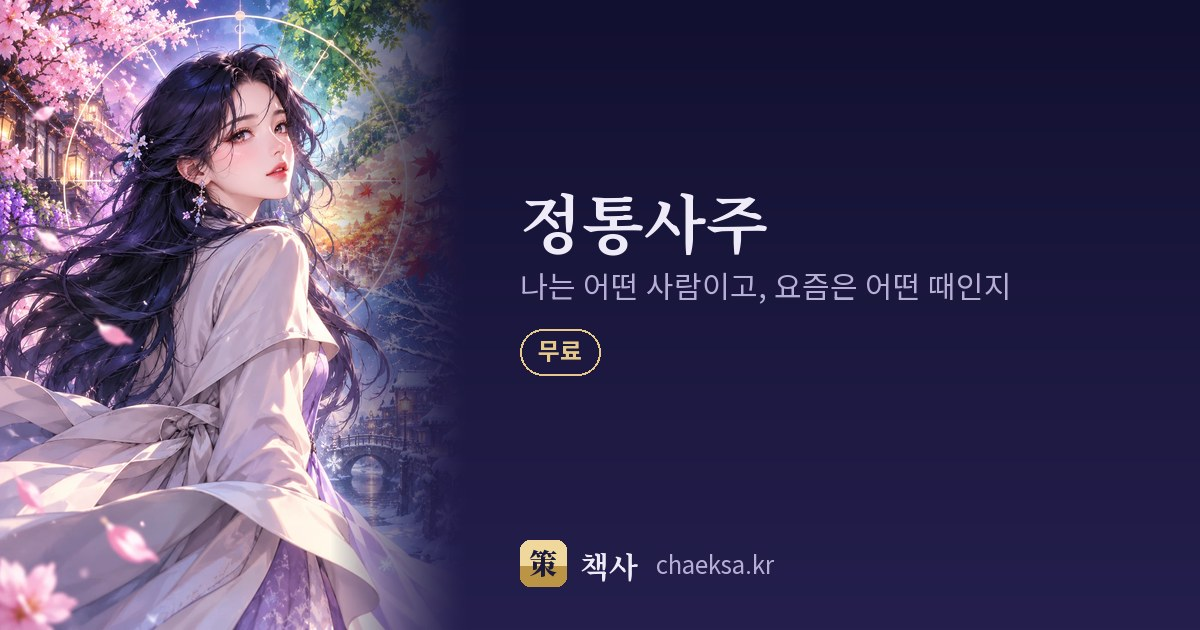
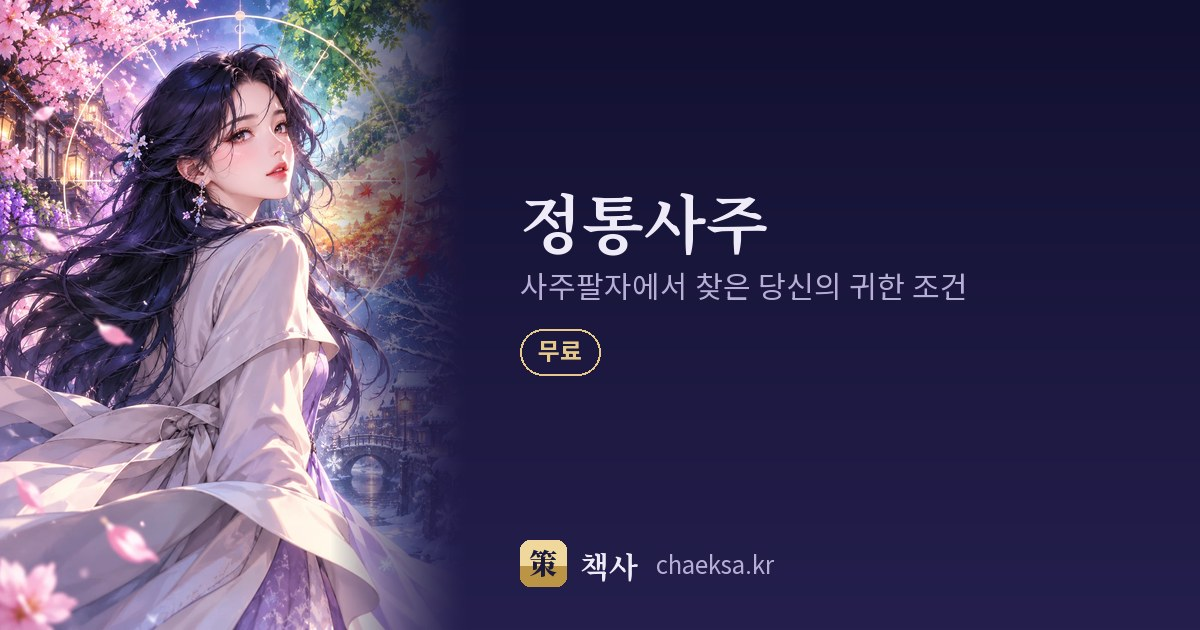
Show the full catalog on returning home and promote traditional readings
정한 것: 이어 보기 카드를 없애고 재방문 홈에 전체 목록을 보인다. 정통사주와 정통자미두수를 상단에 두고 이름과 소개를 통일한다.

Changed region(s): [[0.4317, 0.4222, 0.8325, 0.4825]]

diff --git a/app/yaksok.js b/app/yaksok.js
@@ -47,7 +47,7 @@
 "taekil": {"코드": "taekil", "탭": "taekil", "상품이름": "출산택일 보고서", "단위": "신청 한 건", "한줄": "의사가 정해 준 출산 가능 범위 안에서, 책사의 기준으로 가장 좋은 날과 시간을 골라 드려요. 가장 먼저 권하는 이유와 다른 후보와의 차이를 보고서에 담아요.", "딱지": "자료 무료 · 보고서 {값}", "미리": "아이가 태어날 날을 골라 보는 도구(출산택일 시뮬레이터)와 매달 올리는 날짜 선택 자료(택일 자료)는 가입 없이 무료예요. 지어낸 가족으로 만든 보고서 견본도 결제 전에 먼저 보세요.", "견본": "taekil-sample.html", "신청": "신청 화면에서 신청서를 작성한 뒤, 같은 화면에서 결제하세요.", "만듦": "결제하면 날짜와 시각을 자동으로 계산해요. 책사가 한 번 더 확인한 뒤 「내 보고서」에서 열어 드려요", "시간": "보통 2~3일 안", "받는것": ["후보 기간의 모든 날 · 모든 시각을 비교해 고른 가장 추천하는 날과 시간", "아이 성별에 맞춰 10년마다 바뀌는 운의 흐름(대운)을 반영하고, 부모 · 형제와 사주가 맞지 않는 날을 거른 결과", "태어날 지역의 실제 태양 위치에 맞춘 시각(진태양시)으로 고쳐 계산하고, 병원에 말씀하실 시계 시각까지 적은 보고서", "옛 책 두 권으로 살핀 근거를 함께 적은 문서(궁통보감 · 자평진전)"], "보관": "결제한 계정에 2년 동안 남아서, 폰에서 열어도 PC에서 열어도 「내 보고서」에서 다시 볼 수 있어요", "필요": "메일 주소 · 출산 예정 기간 · 태어날 지역(가족 생년월일시는 아는 만큼) · 결제할 때 카카오 · 네이버 로그인", "환불": "보고서를 처음 열어 보기 전에는 전액 돌려드려요. 연 뒤에는 결제 취소(청약철회)가 제한될 수 있어요. 보고서를 만들지 못해도 전액 돌려드려요.", "자리": "taekil-apply.html", "그림": "art/taekil-main.webp"},
 "gyeolhon": {"코드": "gyeolhon", "탭": "gyeolhon.html", "이름": "결혼상대 점검", "상품이름": "결혼상대 점검 보고서", "단위": "신청 한 건", "한줄": "두 사람의 생년월일시로 같이 가도 되는지 · 서로 맞춰 가야 하는지 · 날짜를 잡기 전에 다시 생각해 봐야 하는지, 셋 가운데 하나로 답해요. 결혼 전에 할 일과 날짜를 잡을 때 피할 해까지 보고서(PDF)에 적어 드려요.", "홈한줄": "이 사람과 결혼해도 될까요?", "딱지": "보고서 · {값}", "미리": "어떤 보고서를 받는지, 지어낸 두 사람으로 만든 견본을 먼저 보세요.", "견본": "gyeolhon-sample.html", "신청": "신청 화면의 저장된 사람 목록에서 두 분을 고르고 보고서를 받으실 메일 주소를 적은 뒤, 그 자리에서 결제해 주세요.", "만듦": "결제하면 프로그램이 두 사람의 생년월일시로 계산하고, 책사가 한 번 더 확인한 뒤 적어 주신 메일로 보고서(PDF)를 보내 드려요", "시간": "보통 2~3일 안", "받는것": ["맨 위 결론 한 줄 — 같이 가도 되는지 · 서로 맞춰 가야 하는지 · 다시 생각해 봐야 하는지, 그리고 결혼 전에 할 일", "두 사람이 어울리는 사이인지 · 서로가 바라던 사람인지 — 각자의 입장에서 본 결과", "짝에게 바라는 모습이 흔들리는 해와, 상대가 내 삶에 들어오면 무엇이 바뀌는지", "옛 책 네 권이 결혼이 깨진다고 본 사주 글자의 조합에 해당하는지 살핀 결과 — 원문 글자 그대로", "조심할 해와 옛 책이 좋지 않다고 본 사주 글자의 조합이 풀리는 해를 순서대로 적은 한 줄 연표"], "필요": "저장된 두 사람(생년월일 · 태어난 시 · 태어난 곳 · 성별) · 보고서를 받으실 메일 주소 · 결제할 때 카카오 · 네이버 로그인", "환불": "보고서를 메일로 받으시기 전에는 이유를 묻지 않고 전액 돌려드려요. 받으신 뒤에는 결제 취소(청약철회)가 제한될 수 있어요. 보고서를 만들지 못해도 전액 돌려드려요.", "자리": "gyeolhon-apply.html", "그림": "art/story-sanggyeonrye.webp"},
 "ilgyeol": {"코드": "ilgyeol", "탭": "ilgyeol.html", "이름": "나는 뭐해 먹고 살까?", "상품이름": "나는 뭐해 먹고 살까?", "단위": "신청 한 건", "한줄": "태어난 해 · 달 · 날 · 시를 글자로 나타내어 풀이하는 방법(사주)과, 태어난 때로 열두 칸에 별을 놓아 보는 옛 방법(자미두수)으로 한 사람에게 맞는 일의 조건 · 피할 상황 · 돈이 들어오는 방법 · 같이 일할 사람 · 앞으로 10년을 풀어 드려요. 널리 퍼진 풀이(통설)와 옛 책 원문으로 본 풀이를 나란히 적고, 결제하면 바로 화면에서 열려요.", "홈한줄": "맞는 일의 조건 · 피할 상황 · 앞으로 10년", "딱지": "결제하면 바로 · {값}", "미리": "어떤 답이 나오는지 소개 화면에서 먼저 보세요. 직업 이름을 찍어 주는 게 아니라, 맞는 일의 조건과 그 근거를 드려요.", "신청": "신청 화면에서 저장된 사람 한 명을 고르고 그 자리에서 결제해 주세요.", "만듦": "결제하면 프로그램이 계산하고 글을 써서 그 자리에서 바로 열어 드려요", "시간": "보통 1~2분", "받는것": ["맞는 일의 조건과 피할 상황 — 사주 글자마다 뜻을 하나로 정해 둔 표(십성 대응표)와 옛 책 원문 글자 그대로를 근거로", "돈이 들어오는 방법 · 같이 일할 사람", "널리 퍼진 풀이(통설) · 옛 책 원문으로 본 풀이 · 책사의 판단 — 서로 다른 부분을 나란히", "앞으로 10년 — 해마다 새로 생기는 변화와 사라지는 변화를, 생각으로 깨닫는 것과 실제 행동으로 옮기는 것으로 나눠 적고, 프로그램의 판정을 붙여요", "태어난 해 · 달 · 날 · 시를 나타내는 여덟 글자를 적은 표(사주 명식표)와 태어난 때로 열두 칸에 별을 놓은 판(자미두수 명반)"], "보관": "결제한 계정에 2년 동안 남아서, 폰에서 열어도 PC에서 열어도 「내 결과」에서 다시 볼 수 있어요", "필요": "저장된 사람 한 명(생년월일 · 태어난 시 · 태어난 곳 · 성별) · 결제할 때 카카오 · 네이버 로그인", "환불": "처음 열어 보기 전에는 이유를 묻지 않고 전액 돌려드려요. 연 뒤에는 결제 취소(청약철회)가 제한될 수 있어요. 만들지 못해도 전액 돌려드려요.", "자리": "ilgyeol-apply.html", "그림": "art/jt-15-work-m.webp"},
-"jeongtong": {"코드": null, "탭": "jeongtong", "딱지": "무료", "필요": "내 생년월일시", "입력단추": "내 정통사주 보기"},
+"jeongtong": {"코드": null, "탭": "jeongtong", "이름": "정통사주", "홈한줄": "사주팔자에서 찾은 당신의 귀한 조건", "딱지": "무료", "필요": "내 생년월일시", "입력단추": "내 정통사주 보기"},
 "chongnon": {"코드": null, "탭": "chongnon", "딱지": "무료", "필요": "내 생년월일시 · 그 사람 생년월일시(다음 칸에서)", "입력단추": "다음 — 그 사람 생년월일"},
 "ssom": {"코드": null, "탭": "ssom", "딱지": "무료", "필요": "내 생년월일시 · 그 사람 생년월일시(다음 칸에서)", "입력단추": "다음 — 그 사람 생년월일"},
 "week": {"코드": null, "탭": "home", "딱지": "무료", "필요": "내 생년월일시", "입력단추": "이번 주 흐름 보기"},
@@ -56,7 +56,7 @@
 "saram": {"코드": null, "탭": "saram.html", "이름": "새로 만난 그 사람", "홈한줄": "이름 · 생년월일만 넣으면 원래 어떤 사람인지 한눈에", "딱지": "무료", "필요": "내 생년월일 + 다른 사람 생년월일", "자리": "saram.html"},
 "gyeokgi": {"코드": null, "탭": "gyeokgi.html", "이름": "옛 책은 내 명식을 반겼을까", "홈한줄": "옛 책이 이름 붙여 반긴 드문 짜임(격)에 내 사주(명식)가 해당하는지", "딱지": "무료", "필요": "내 생년월일시", "자리": "gyeokgi.html"},
 "gwi": {"코드": null, "탭": "gwi.html", "이름": "나는 귀한 사람일까", "홈한줄": "옛 책이 귀하다고 꼽은 짜임이 내 사주에 있는지", "딱지": "무료", "필요": "내 생년월일시", "자리": "gwi.html"},
-"myeongban": {"코드": null, "탭": "myeongban.html", "이름": "내 명반에는 무엇이 적혀 있을까", "홈한줄": "자미두수 명반(열두 칸에 별을 놓은 판)을 그리고, 칸(궁)과 별을 누르면 옛 책이 거기 적은 말을", "딱지": "무료", "필요": "내 생년월일시(시각 꼭)", "자리": "myeongban.html"},
+"myeongban": {"코드": null, "탭": "myeongban.html", "이름": "정통자미두수", "홈한줄": "별의 배치에서 찾은 당신의 귀한 조건", "딱지": "무료", "필요": "내 생년월일시(시각 꼭)", "자리": "myeongban.html"},
 "read": {"코드": null, "탭": "read.html", "딱지": "무료"}
 },
 "차례": ["taekil", "gyeolhon", "ilgyeol", "love", "pair"],

diff --git a/app/home-cats.js b/app/home-cats.js
@@ -71,7 +71,7 @@
     return null;
   }
 
-  var 그림판 = 'v1472';   // tools_bust.py --bump 가 서비스워커 판과 같이 올린다
+  var 그림판 = 'v1473';   // tools_bust.py --bump 가 서비스워커 판과 같이 올린다
   function 그림칸(b, c, i, 차례, g, Y) {
     // 그림은 그림만(10-23 사장님) — 그림 아래에 이름(.n) · 한줄(.s) · 딱지(.t: 무엇이 무료 · 얼마 — 값은 상품표에서 채운다). 분류 딱지는 안 그린다.
     var 이름 = c.표시명 || (Y && Y.이름(c.키)) || b.이름, 한줄 = c.설명 || (Y && Y.홈한줄 ? Y.홈한줄(c.키) : ''), 딱지 = Y ? Y.딱지html(c.키) : '';
@@ -111,7 +111,7 @@
     Object.keys(칸).some(function (분류) { return 칸[분류].some(function (c) { if (c.키 !== 키) return false; out = { b: { 키: 분류 }, c: c }; return true; }); });
     return out;
   }
-  // 홈은 목적 네 개, 전체 보기는 기존 상품 표 전부. 계산·가격·입력 경로는 기존 것을 쓴다.
+  // 처음 방문은 정통 풀이 두 칸과 목적별 입구. 재방문 홈은 전체 목록.
   function 그리기(el) {
     if (!el) return;
     var Y = global.ChaeksaYaksok, g = 성별();
@@ -121,7 +121,12 @@
       ['jeongtong', '내 일과 돈', '돈 버는 방식부터 살펴보세요', 'jtCh7'],
       ['when', '언제 나아질까?', '힘든 때와 풀리는 때를 살펴보세요']
     ];
-    el.innerHTML = '<section class="home-paths" aria-label="목적별 바로가기"><h2>바로 보고 싶은 이야기</h2><div class="cats home-doors">' + 입구.map(function (r, i) {
+    var 정통 = ['jeongtong', 'myeongban'].map(function (key, i) {
+      var x = 찾기(key);
+      return 그림칸(x.b, x.c, i, i, g, Y);
+    }).join('');
+    el.innerHTML = '<section class="home-paths" aria-label="나를 알아보기"><h2>나를 알아보기</h2><div class="cats home-doors">' + 정통 + '</div></section>'
+      + '<section class="home-paths" aria-label="목적별 바로가기"><h2>바로 보고 싶은 이야기</h2><div class="cats home-doors">' + 입구.map(function (r, i) {
       var x = 찾기(r[0]);
       return 그림칸(x.b, Object.assign({}, x.c, { 표시명: r[1], 설명: r[2], 곳: r[3] }), i, i, g, Y);
     }).join('') + '</div><a class="home-all-link" href="#all">전체 보기 <span aria-hidden="true">→</span></a></section>';
@@ -129,16 +134,18 @@
     길달기(el);
   }
   function 전체그리기(el) {
-    var Y = global.ChaeksaYaksok, g = 성별(), n = 4;
+    var Y = global.ChaeksaYaksok, g = 성별(), n = 0;
+    var prefix = el.closest('[data-tab="home"]') ? 'home-catalog-' : 'all-catalog-';
     var 묶음들 = [
+      ['나를 알아보기', ['jeongtong', 'myeongban']],
       ['아기 태어날 날과 시간', ['taekil']],
       ['연애와 궁합', ['chongnon', 'ssom', 'gyeolhon', 'love', 'pair', 'saram']],
       ['일과 돈', ['ilgyeol']],
-      ['나를 알아보기', ['jeongtong', 'when', 'brain', 'gwi', 'gyeokgi', 'myeongban']],
+      ['더 알아보기', ['when', 'brain', 'gwi', 'gyeokgi']],
       ['읽을거리', ['read']]
     ];
     el.innerHTML = 묶음들.map(function (r, group) {
-      return '<section class="catalog-group" aria-labelledby="catalog-title-' + group + '"><h2 id="catalog-title-' + group + '">' + esc(r[0]) + '</h2><div class="catalog-list">' + r[1].map(function (키, i) {
+      return '<section class="catalog-group" aria-labelledby="' + prefix + group + '"><h2 id="' + prefix + group + '">' + esc(r[0]) + '</h2><div class="catalog-list">' + r[1].map(function (키, i) {
         var x = 찾기(키);
         return 그림칸(x.b, Object.assign({}, x.c, { 목록: true }), i, n++, g, Y);
       }).join('') + '</div></section>';

diff --git a/app/index.html b/app/index.html
@@ -108,7 +108,7 @@
      굵기 목록은 글 · 택일 쪽 67곳과 같게 맞췄다 — 같은 주소라 쪽을 옮겨도 다시 받지 않는다. 걷은 Serif 600 은 쓰는 곳이 없었다(style.css 의 600 넷은 모두 Sans). -->
 <link rel="preload" as="style" href="https://fonts.googleapis.com/css2?family=Noto+Serif+KR:wght@400;700;900&family=Noto+Sans+KR:wght@400;500;700&family=Gowun+Batang:wght@400;700&display=swap" onload="this.onload=null;this.rel='stylesheet'">
 <noscript><link rel="stylesheet" href="https://fonts.googleapis.com/css2?family=Noto+Serif+KR:wght@400;700;900&family=Noto+Sans+KR:wght@400;500;700&family=Gowun+Batang:wght@400;700&display=swap"></noscript>
-<link rel="stylesheet" href="style.css?v=49a9ab4e50">
+<link rel="stylesheet" href="style.css?v=5eec3ba506">
 <link rel="stylesheet" href="jeongtong-pyo.css?v=c709819858">
 <link rel="stylesheet" href="jeongtong-share.css?v=ca57976dd3">
 <!-- 10-02 첫 칸 표지를 미리 부른다 — 표지는 home-cats.js 가 스크립트를 다 받은 뒤에야 그려서, 그제서야 받기 시작했다.
@@ -268,11 +268,7 @@
   <div id="app" class="hide">
     <!-- 홈 — 타일 · 만세력(사람 전환) · 타일 -->
     <div class="tab" data-tab="home">
-      <section class="home-return">
-        <h1>내 사주, 이어서 볼까요?</h1>
-        <p>저장한 생년월일로 바로 볼 수 있어요.</p>
-        <a class="btn" href="./?go=jeongtong" data-home-open="jeongtong">내 사주 이어 보기</a>
-      </section>
+      
       <!-- 홈은 이야기 서점이다 (2026-09-12 사장님 확정 전략 — 「웹툰처럼 고르고 → 내 이야기라서 읽고 →
            다음이 궁금해서 결제하고 → 다른 이야기도 찾아보는 서비스」). 긴 소개문 없이 바로 표지.
            ① 지금 마음에 걸리는 이야기(큰 표지 가로 진열대) ② 어떤 사이가 궁금하세요(칩) ③ 표지 목록(모바일 3열)
@@ -293,7 +289,7 @@
       </details>
       <!-- 10-22 사장님 「메뉴들이 한눈에 들어와야」 — 메뉴판(그림 칸)을 물음 칩보다 먼저. -->
       <!-- 09-30 사장님 「홈구성을 분류 → 연애 → 썸네일 삽화 터치하면 컨텐츠 입장 · 분류마다 하나씩 · 없는 건 준비중」 — home-cats.js 가 그린다. -->
-      <div data-home-cats></div>
+      <div data-home-catalog></div>
       <!-- 10-02 「무엇이 궁금하세요?」(home-ask.js) — 첫 화면과 같은 물음 칩. 그림 칸 위. -->
       <!-- 10-02 숨어 있던 네 컷 그림(.lp-scene.home-scene)은 걷었다 — 위 첫 화면과 같은 까닭. -->
       <!-- 09-27 GPT 지적 5: 표지마다 「무슨 답을 얻나」 한 줄(작가) -->
@@ -757,10 +753,10 @@
 <script src="sipseong-byeonhwa.js?v=cc11120d20"></script>
 <script src="byeonhwa-jogak.js?v=ade331ebee"></script>
 <script src="byeonhwa.js?v=5008ee2370"></script>
-<script src="yaksok.js?v=ac6b394f76"></script>
+<script src="yaksok.js?v=5789d98711"></script>
 <script src="oryu.js?v=dd6fb278b2"></script>
 <script src="bunya.js?v=f082457166"></script>
-<script src="home-cats.js?v=85aa4b77f8"></script>
+<script src="home-cats.js?v=c3de2a94bc"></script>
 <script src="home-ask.js?v=6ebbc20453"></script>
 <script src="chaeksadan.js?v=bda9866c97"></script>
 <script src="share.js?v=d14e2a4e8e"></script>

diff --git a/app/myeongban.html b/app/myeongban.html
@@ -3,11 +3,11 @@
 <head>
 <meta charset="utf-8">
 <meta name="viewport" content="width=device-width, initial-scale=1, viewport-fit=cover">
-<title>자미두수 · 별들이 그린 당신의 귀한 자리 · 책사</title>
+<title>정통자미두수 · 별들이 그린 당신의 귀한 자리 · 책사</title>
 <meta name="description" content="자미두수전서가 좋게 본 조건을 내 명반에서 찾습니다. 좋은 조건을 하나씩 겹친 누적 비율과 원문 근거, 열두 궁의 이야기를 무료로 읽어 보세요.">
 <meta name="robots" content="index,follow,max-snippet:-1">
 <link rel="canonical" href="https://chaeksa.kr/myeongban.html">
-<meta property="og:title" content="자미두수 · 별들이 그린 당신의 귀한 자리">
+<meta property="og:title" content="정통자미두수 · 별들이 그린 당신의 귀한 자리">
 <meta property="og:description" content="나에게 해당하는 좋은 조건을 하나씩 쌓아 읽는 자미두수. 원문과 내 명반의 근거까지 함께 봅니다. 무료.">
 <meta property="og:type" content="website">
 <meta property="og:site_name" content="책사">
@@ -24,7 +24,7 @@
 <link rel="preconnect" href="https://fonts.googleapis.com">
 <link rel="preconnect" href="https://fonts.gstatic.com" crossorigin>
 <link href="https://fonts.googleapis.com/css2?family=Noto+Serif+KR:wght@400;700;900&family=Noto+Sans+KR:wght@400;500;700&family=Gowun+Batang:wght@400;700&display=swap" rel="stylesheet">
-<link rel="stylesheet" href="style.css?v=49a9ab4e50">
+<link rel="stylesheet" href="style.css?v=5eec3ba506">
 <link rel="stylesheet" href="myeongban-filter.css?v=90515b436d">
 <style>
 /* brain.html 과 같은 꼴 — 사이트 공통(style.css 변수 · 머리 줄 · 「← 홈」). 이 쪽만의 색을 새로 박지 않는다(hex 0) — 종이는 카드 변수, 먹은 글자 변수, 주홍은 강조 변수 */
@@ -142,8 +142,8 @@ body.sh-open{overflow:hidden}
 <div class="mini-head" role="banner"><a class="logo" href="./" title="처음 화면으로"><i class="seal">策</i><span>책사</span></a></div>
 <main class="wrap">
   <a class="btn ghost small backhome" href="./" style="display:inline-block;margin-top:0;text-decoration:none">← 홈</a>
-  <p class="eyebrow" id="eyebrow">자미두수 · 자미두수전서</p>
-  <h1 id="h1">별들이 그린 당신의 귀한 자리</h1>
+  <p class="eyebrow" id="eyebrow">별들이 그린 당신의 귀한 자리</p>
+  <h1 id="h1">정통자미두수</h1>
   <p class="sub" id="sub"></p>
 
   <div id="who"></div>
@@ -178,6 +178,6 @@ body.sh-open{overflow:hidden}
 <script src="share.js?v=d14e2a4e8e"></script>
 <script src="myeongban-copy.js?v=558e26b3da"></script>
 <script src="myeongban-filter.js?v=321bc39a25"></script>
-<script src="myeongban.js?v=a2fe2b6278"></script>
+<script src="myeongban.js?v=2891f50c78"></script>
 </body>
 </html>

diff --git a/app/jeongtong.html b/app/jeongtong.html
@@ -3,13 +3,13 @@
 <head>
 <meta charset="utf-8">
 <meta name="viewport" content="width=device-width, initial-scale=1, viewport-fit=cover">
-<title>정통사주 — 나는 어떤 사람이고, 요즘은 어떤 때인지 · 책사</title>
+<title>정통사주 — 사주팔자에서 찾은 당신의 귀한 조건 · 책사</title>
 <meta name="description" content="나는 어떤 사람이고, 요즘은 어떤 때인지 — 나는 어떤 사람이에요? 내가 잘하는 것과 자꾸 걸려 넘어지는 건 뭐예요? 내 안에선 누가 누굴 밀고 당기고 있어요?">
 <meta name="robots" content="index,follow,max-snippet:-1,max-image-preview:large">
 <link rel="canonical" href="https://chaeksa.kr/jeongtong.html">
 <meta property="og:type" content="website">
 <meta property="og:site_name" content="책사">
-<meta property="og:title" content="정통사주 — 나는 어떤 사람이고, 요즘은 어떤 때인지">
+<meta property="og:title" content="정통사주 — 사주팔자에서 찾은 당신의 귀한 조건">
 <meta property="og:description" content="나는 어떤 사람이고, 요즘은 어떤 때인지 — 나는 어떤 사람이에요? 내가 잘하는 것과 자꾸 걸려 넘어지는 건 뭐예요? 내 안에선 누가 누굴 밀고 당기고 있어요?">
 <meta property="og:image" content="https://chaeksa.kr/cards/og/jeongtong.jpg">
 <meta property="og:image:width" content="1200">
@@ -26,7 +26,7 @@ document.documentElement.setAttribute('data-theme','day');
 <link rel="preconnect" href="https://fonts.googleapis.com">
 <link rel="preconnect" href="https://fonts.gstatic.com" crossorigin>
 <link href="https://fonts.googleapis.com/css2?family=Noto+Serif+KR:wght@400;700;900&family=Noto+Sans+KR:wght@400;500;700&family=Gowun+Batang:wght@400;700&display=swap" rel="stylesheet">
-<link rel="stylesheet" href="style.css?v=1472">
+<link rel="stylesheet" href="style.css?v=1473">
 <style>
   .doc{max-width:660px;margin:0 auto;padding:24px 18px 90px}
   .doc h1{font-family:var(--serif);font-size:var(--t6);line-height:1.35;margin:6px 0 8px;color:var(--ink)}
@@ -101,8 +101,8 @@ document.documentElement.setAttribute('data-theme','day');
   유코아 팔달 · 대표 이승용 · 사업자등록번호 745-68-00160 · 통신판매업 제2026-대구북구-0909호<br>
   대구 북구 매천로 2길19 상가 126동 1층 111호 · 010-9999-1263 · dl4431@naver.com</p>
 </main>
-<script src="config.js?v=1472"></script>
-<script src="track.js?v=1472"></script>
+<script src="config.js?v=1473"></script>
+<script src="track.js?v=1473"></script>
 <script>
 (function(){
   var f='';try{f=new URLSearchParams(location.search).get('from')||'';}catch(e){}

diff --git a/app/style.css b/app/style.css
@@ -1514,11 +1514,9 @@ html[data-boot="landing"] #nav{display:grid!important}
 #nav a{background:none;border:0;color:var(--ink3);font-size:var(--t1);text-decoration:none;display:flex;flex-direction:column;align-items:center;justify-content:center;gap:5px;min-height:44px;padding:4px 0;border-radius:var(--r1);font-family:var(--sans)}
 #nav a svg{width:22px;height:22px;display:block;stroke:currentColor;fill:none;stroke-width:1.5;stroke-linecap:round;stroke-linejoin:round}
 #nav a:hover{color:var(--ink2)}
-#nav :is(button,a):focus-visible,.home-paths a:focus-visible,.catalog-list a:focus-visible,.home-return a:focus-visible{outline:3px solid var(--accent);outline-offset:3px}
-.home-return{margin:8px 0 28px;padding:24px 20px;border:1px solid var(--line);border-radius:var(--r2);background:var(--card)}
-.home-return h1,.catalog-heading h1{margin:0;font-size:26px;line-height:1.4;word-break:keep-all}
-.home-return p,.catalog-heading p{margin:10px 0 20px;color:var(--ink2);font-size:15px;line-height:1.6}
-.home-return .btn{display:flex;align-items:center;justify-content:center;min-height:48px;text-decoration:none}
+#nav :is(button,a):focus-visible,.home-paths a:focus-visible,.catalog-list a:focus-visible{outline:3px solid var(--accent);outline-offset:3px}
+.catalog-heading h1{margin:0;font-size:26px;line-height:1.4;word-break:keep-all}
+.catalog-heading p{margin:10px 0 20px;color:var(--ink2);font-size:15px;line-height:1.6}
 .home-paths{text-align:left}
 .home-paths h2{font-size:19px;line-height:1.5;margin:0 0 14px}
 .home-doors{grid-template-columns:repeat(2,minmax(0,1fr));gap:12px;margin-bottom:14px}
@@ -1542,3 +1540,6 @@ html[data-boot="landing"] #nav{display:grid!important}
 #hiCal label{display:flex;align-items:center;gap:6px;min-height:44px;font-size:15px;cursor:pointer}
 #hiBirth .home-time-hint{margin:2px 0 6px;font-size:14px}
 #hiMore>summary{min-height:44px;padding:12px 0;font-size:14px;cursor:pointer}
+
+/* Returning home is the complete catalog. */
+.home-paths+.home-paths{margin-top:28px}

diff --git a/app/myeongban.js b/app/myeongban.js
@@ -53,8 +53,8 @@
   var 궁of = function (이름) { return 결과 ? 결과.명반.궁.filter(function (g) { return g.이름 === 이름; })[0] : null; };
 
   try { $('p').innerHTML = window.ChaeksaPlaces ? ChaeksaPlaces.options() : '<option value="KR:서울">서울</option>'; $('p').value = 'KR:서울'; } catch (e) {}
-  $('h1').textContent = '별들이 그린 당신의 귀한 자리';
-  $('eyebrow').textContent = '자미두수 · 자미두수전서';
+  $('h1').textContent = '정통자미두수';
+  $('eyebrow').textContent = '별들이 그린 당신의 귀한 자리';
   $('sub').textContent = '옛 책이 좋게 본 조건을 하나씩 겹쳐, 당신의 명반을 읽습니다.';
   $('hint').textContent = 글('입력.시필요', '');
   $('go').textContent = '내 명반 읽기';
@@ -458,7 +458,7 @@
     var sh = t.closest && t.closest('[data-share]');
     if (sh) {
       var 주소 = 'https://chaeksa.kr/myeongban.html', 말 = $('shareMsg');
-      var r = window.ChaeksaShare && ChaeksaShare.shareLink ? await ChaeksaShare.shareLink({ title: 글('공유.제목', '당신의 명반에는 무엇이 적혀 있을까요? — 책사'), text: 글('공유.글', ''), url: 주소 }) : '';
+      var r = window.ChaeksaShare && ChaeksaShare.shareLink ? await ChaeksaShare.shareLink({ title: '정통자미두수 — 책사', text: '별의 배치에서 찾은 당신의 귀한 조건', url: 주소 }) : '';
       if (말) 말.textContent = r === 'copied' ? '주소를 복사했어요. 카톡 대화창에 붙여 넣으세요.' : r === '' ? '이 주소를 보내 주세요 — ' + 주소 : 글('공유.안내', '');
       try { if (r && r !== 'aborted' && window.ChaeksaTrack && ChaeksaTrack.event) ChaeksaTrack.event('myeongban_share'); } catch (e2) {}
       return;

diff --git a/app/sw.js b/app/sw.js
@@ -9,7 +9,7 @@
  *  그 밖(지문 없는 파일 · 숫자 ?v=) — 네트워크 먼저, 끊겼을 때만 캐시.
  *  캐시에는 제대로 받은 것(r.ok)만 넣는다 — 404 · 오류 쪽이 캐시에 남아 다음에 그것을 보이는 일이 없게.
  */
-const CACHE = 'chaeksa-v1472';          // tools_bust.py --bump 가 올린다 — 이 파일이 바뀌어야 브라우저가 새 일꾼을 받는다
+const CACHE = 'chaeksa-v1473';          // tools_bust.py --bump 가 올린다 — 이 파일이 바뀌어야 브라우저가 새 일꾼을 받는다
 const FILES_CACHE = 'chaeksa-files';    // ① 지문 붙은 파일 — 배포마다 지우지 않는다
 const IMG_CACHE = 'chaeksa-img';        // ② 그림
 const IMG_MAX = 400;

diff --git a/design-requests/DES-0013-returning-home.md b/design-requests/DES-0013-returning-home.md
@@ -1,0 +1,23 @@
+# DES-0013 · 재방문 홈은 전체 목록
+
+2026-10-26 · 사용자: 「내 사주를 이어서 본다는 게 타당하지 않음. 재방문 시 없어지거나 전체 목록이 나와야 한다」.
+
+## 적용
+
+- 저장한 생년월일을 이용한 단일 「이어서 보기」 카드를 제거한다. 읽던 위치를 확인하지 않았으므로 이어 보기라는 설명이 맞지 않는다.
+- 재방문 홈은 전체 콘텐츠 목록을 바로 보여 준다. 생년월일은 콘텐츠를 고른 뒤 기존 입력 경로에서 활용한다.
+- 정통사주 · 정통자미두수를 첫 묶음 「나를 알아보기」에 둔다.
+- 첫 방문의 목적별 입구 앞에도 두 정통 풀이 입구를 둔다.
+- 전체 보기 역시 같은 콘텐츠 순서를 쓴다. 홈·전체 보기의 섹션 ID는 구분한다.
+- 「내 명반에는 무엇이 적혀 있을까」를 「정통자미두수」로 바꾸고 페이지·공유 이름도 통일한다.
+- 상품 약속 장부에서 이름과 소개 문구를 관리한다.
+
+## 문구
+
+정통사주: 사주팔자에서 찾은 당신의 귀한 조건.
+
+정통자미두수: 별의 배치에서 찾은 당신의 귀한 조건.
+
+## 범위
+
+홈과 콘텐츠 이름·소개·순서 변경. 명리 엔진 변경 없음. 별도 테스트 스위트 실행 없음.
